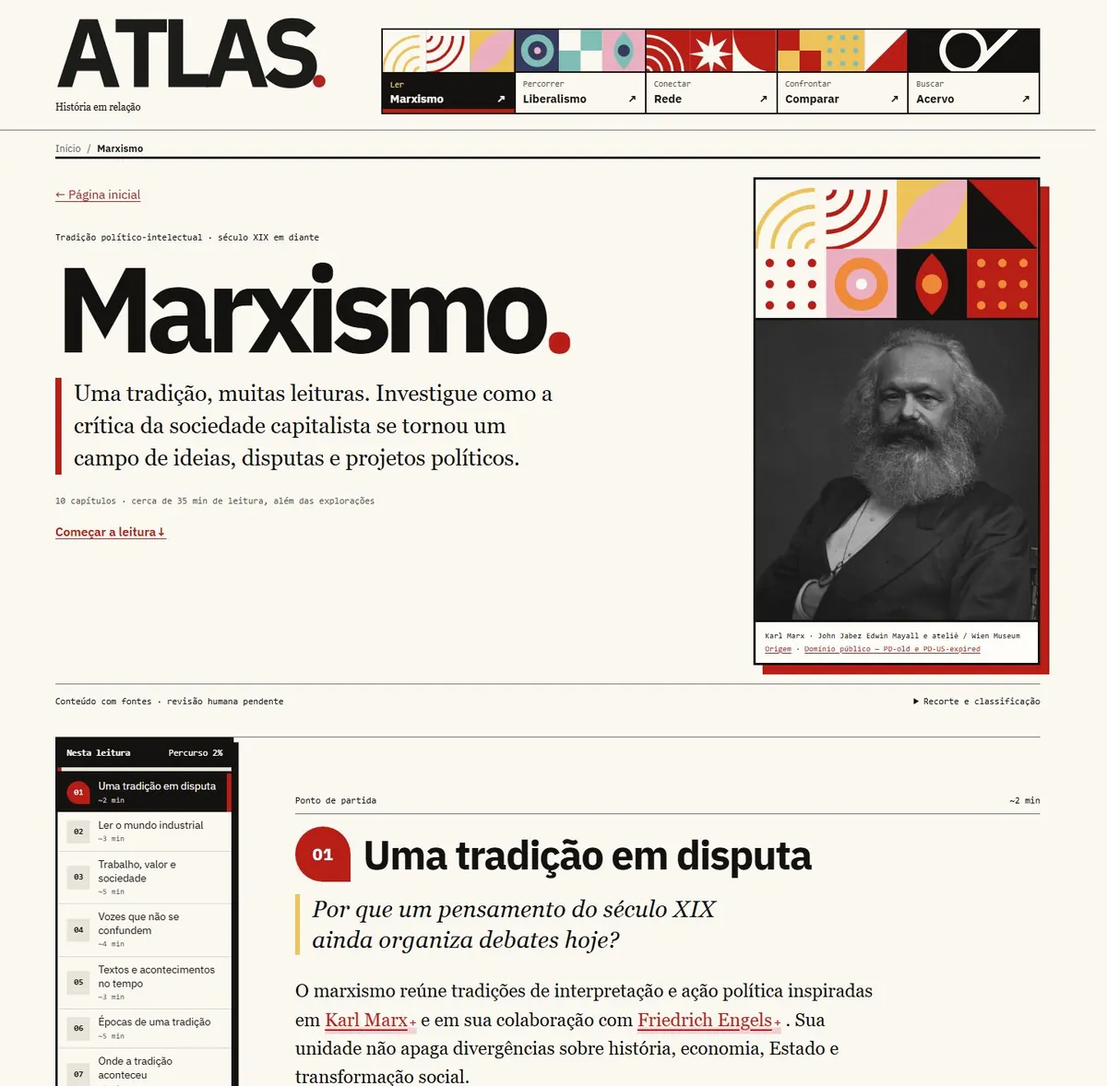
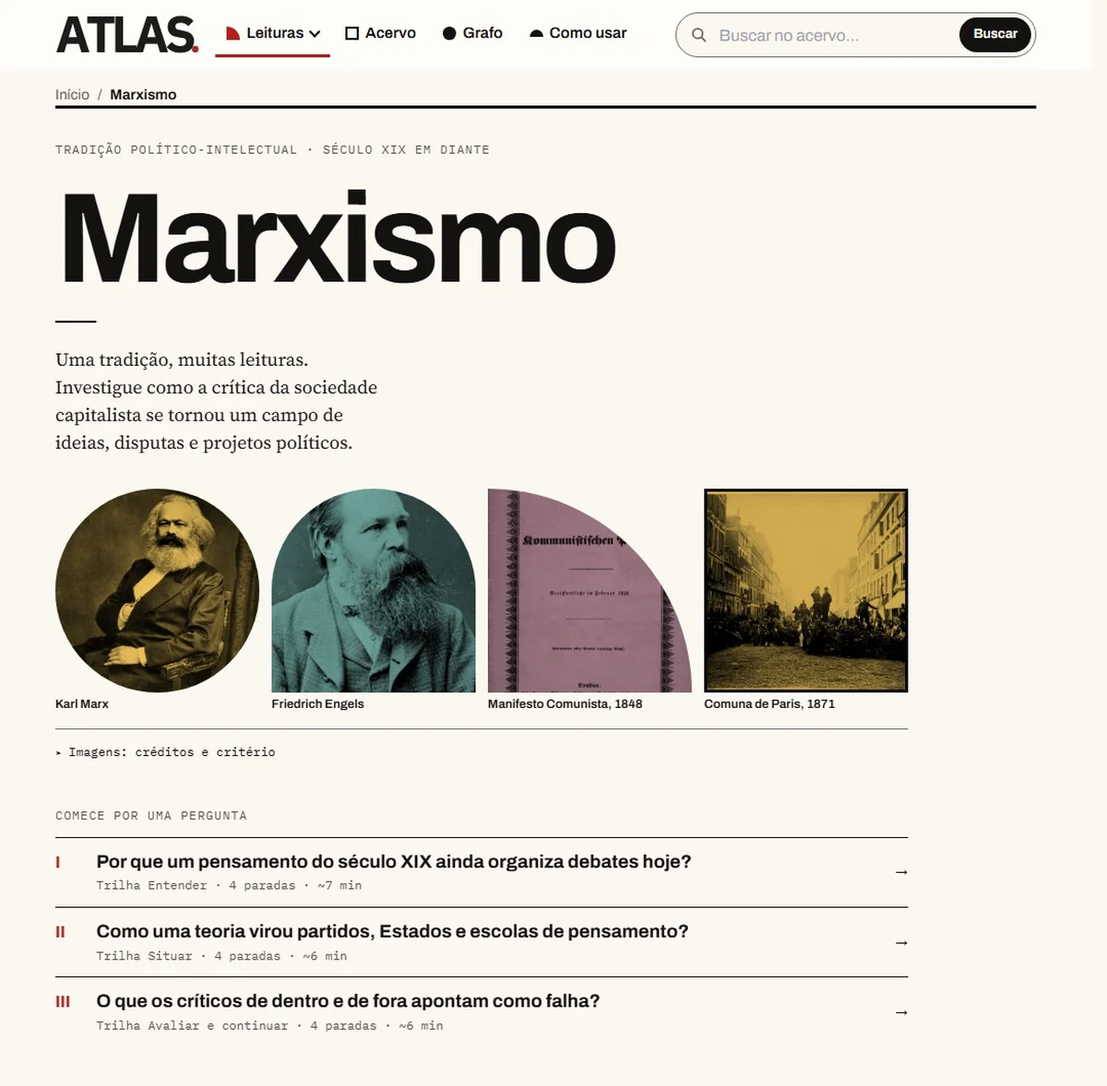
feat(portfolio): add Dalibre projects, refresh ATLAS reading preview and update README

diff --git a/index.html b/index.html
@@ -385,7 +385,7 @@
             <p class="section-description" data-i18n="projectsIntro">Beyond interfaces, I build tools for everyday development. Personal projects with open code, tests and documentation for you to explore.</p>
           </div>
         </div>
-        <div data-portfolio-content="projects"><div class="index-tool-list"><span class="index-grid-cross index-grid-cross--half" aria-hidden="true"></span><article class="index-tool-row reveal" data-reveal="left" style="--reveal-delay:0ms"><span class="index-card-number">01</span><div class="index-tool-title"><p class="project-category">DEPLOY / CI</p><h3>Deploy Preflight</h3></div><div class="index-tool-description"><h4>Validate configuration before deployment.</h4><p>Missing variables, inaccessible files and invalid URLs can break a release. A CLI that brings these checks into one report for your terminal or pipeline.</p><p class="project-decision">Typed validation, optional HTTP probes and CI exit codes. Environment values stay out of reports.</p><ul class="tech-tags"><li data-tech="TypeScript" style="--badge-delay:0ms">TypeScript</li><li data-tech="Node.js" style="--badge-delay:42ms">Node.js</li><li data-tech="HTTP" style="--badge-delay:84ms">HTTP</li><li data-tech="GitHub Actions" style="--badge-delay:126ms">GitHub Actions</li></ul><div class="index-terminal" role="group" aria-label="Usage example for Deploy Preflight"><div class="index-terminal-head"><span><i aria-hidden="true"></i>TERMINAL</span><span>DEPLOY / CI</span></div><pre><code><span class="terminal-prompt" aria-hidden="true">$</span> <span class="terminal-executable">deploy-preflight</span> <span class="terminal-argument">check</span> <span class="terminal-flag">--env-file</span> <span class="terminal-argument">.env.local</span> <span class="terminal-flag">--json</span></code></pre><div class="index-terminal-flow"><span>EXPECTED FLOW</span><p>Missing required variable → exit 1. Corrected configuration → exit 0.</p></div></div><div class="project-links"><a class="text-link" href="https://github.com/bellussi1/deploy-preflight" target="_blank" rel="noopener noreferrer">Explore code<span aria-hidden="true">↗</span></a><a class="text-link" href="https://github.com/bellussi1/deploy-preflight/actions" target="_blank" rel="noopener noreferrer">View tests and CI<span aria-hidden="true">↗</span></a><a class="text-link" href="https://github.com/bellussi1/deploy-preflight#runnable-example" target="_blank" rel="noopener noreferrer">Run the demo<span aria-hidden="true">↗</span></a></div></div></article><article class="index-tool-row reveal" data-reveal="right" style="--reveal-delay:95ms"><span class="index-card-number">02</span><div class="index-tool-title"><p class="project-category">BACKEND / INTEGRATIONS</p><h3>Local Webhook Recorder</h3></div><div class="index-tool-description"><h4>One event. As many tests as you need.</h4><p>Reproducing an integration should not require triggering the event again. Capture local webhooks, inspect their payloads and replay them after changing your handler.</p><p class="project-decision">SQLite persistence, byte-preserving capture and explicit replay to local endpoints. Payload and retention limits.</p><ul class="tech-tags"><li data-tech="TypeScript" style="--badge-delay:0ms">TypeScript</li><li data-tech="Node.js" style="--badge-delay:42ms">Node.js</li><li data-tech="SQLite" style="--badge-delay:84ms">SQLite</li><li data-tech="Webhooks" style="--badge-delay:126ms">Webhooks</li></ul><div class="index-terminal" role="group" aria-label="Usage example for Local Webhook Recorder"><div class="index-terminal-head"><span><i aria-hidden="true"></i>TERMINAL</span><span>BACKEND / INTEGRATIONS</span></div><pre><code><span class="terminal-prompt" aria-hidden="true">$</span> <span class="terminal-executable">webhook-recorder</span> <span class="terminal-argument">replay</span> <span class="terminal-argument">EVENT_ID</span> <span class="terminal-flag">--to</span> <span class="terminal-argument">http://127.0.0.1:3000/webhooks</span> <span class="terminal-flag">--json</span></code></pre><div class="index-terminal-flow"><span>EXPECTED FLOW</span><p>Capture an order and replay it twice: the example handler identifies the duplicate.</p></div></div><div class="project-links"><a class="text-link" href="https://github.com/bellussi1/local-webhook-recorder" target="_blank" rel="noopener noreferrer">Explore code<span aria-hidden="true">↗</span></a><a class="text-link" href="https://github.com/bellussi1/local-webhook-recorder/actions" target="_blank" rel="noopener noreferrer">View tests and CI<span aria-hidden="true">↗</span></a><a class="text-link" href="https://github.com/bellussi1/local-webhook-recorder#replay-and-idempotency-demo" target="_blank" rel="noopener noreferrer">Run the demo<span aria-hidden="true">↗</span></a></div></div></article><article class="index-tool-row reveal" data-reveal="scale" style="--reveal-delay:190ms"><span class="index-card-number">03</span><div class="index-tool-title"><p class="project-category">INFRA / DOCKER</p><h3>Compose Doctor</h3></div><div class="index-tool-description"><h4>Understand the state of your environment.</h4><p>A running container can still have a failing healthcheck. Diagnose Docker Compose services with status, restarts, ports and investigation suggestions.</p><p class="project-decision">Read-only queries, bounded subprocesses and selected metadata. Reports in text or JSON.</p><ul class="tech-tags"><li data-tech="TypeScript" style="--badge-delay:0ms">TypeScript</li><li data-tech="Docker Compose" style="--badge-delay:42ms">Docker Compose</li><li data-tech="Healthchecks" style="--badge-delay:84ms">Healthchecks</li><li data-tech="CLI" style="--badge-delay:126ms">CLI</li></ul><div class="index-terminal" role="group" aria-label="Usage example for Compose Doctor"><div class="index-terminal-head"><span><i aria-hidden="true"></i>TERMINAL</span><span>INFRA / DOCKER</span></div><pre><code><span class="terminal-prompt" aria-hidden="true">$</span> <span class="terminal-executable">compose-doctor</span> <span class="terminal-argument">check</span> <span class="terminal-flag">--file</span> <span class="terminal-argument">examples/compose.yaml</span> <span class="terminal-flag">--file</span> <span class="terminal-argument">examples/compose.fixed.yaml</span> <span class="terminal-flag">--project-name</span> <span class="terminal-argument">doctor-demo</span> <span class="terminal-flag">--service</span> <span class="terminal-argument">api</span> <span class="terminal-flag">--json</span></code></pre><div class="index-terminal-flow"><span>EXPECTED FLOW</span><p>API and database healthy → ready · exit 0.</p></div></div><div class="project-links"><a class="text-link" href="https://github.com/bellussi1/compose-doctor" target="_blank" rel="noopener noreferrer">Explore code<span aria-hidden="true">↗</span></a><a class="text-link" href="https://github.com/bellussi1/compose-doctor/actions" target="_blank" rel="noopener noreferrer">View tests and CI<span aria-hidden="true">↗</span></a><a class="text-link" href="https://github.com/bellussi1/compose-doctor#real-demo-unhealthy--ready" target="_blank" rel="noopener noreferrer">Run the demo<span aria-hidden="true">↗</span></a></div></div></article><article class="index-tool-row reveal" data-reveal="right" style="--reveal-delay:285ms"><span class="index-card-number">04</span><div class="index-tool-title"><p class="project-category">TRANSLATION / LLM</p><h3>Scriptorium</h3></div><div class="index-tool-description"><h4>Whole books, translated in parts and resumable.</h4><p>A personal fork of TranslateBooksWithLLMs for literary translation from English into Brazilian Portuguese. It runs locally, with models through Ollama, one book at a time.</p><p class="project-decision">Per-series glossary and style, checkpoints to resume, and validated EPUB output for KOReader and Calibre.</p><ul class="tech-tags"><li data-tech="Python" style="--badge-delay:0ms">Python</li><li data-tech="Ollama" style="--badge-delay:42ms">Ollama</li><li data-tech="Docker Compose" style="--badge-delay:84ms">Docker Compose</li><li data-tech="EPUB" style="--badge-delay:126ms">EPUB</li></ul><div class="index-terminal" role="group" aria-label="Usage example for Scriptorium"><div class="index-terminal-head"><span><i aria-hidden="true"></i>TERMINAL</span><span>TRANSLATION / LLM</span></div><pre><code><span class="terminal-prompt" aria-hidden="true">$</span> <span class="terminal-executable">python</span> <span class="terminal-argument">translate.py</span> <span class="terminal-argument">-i</span> <span class="terminal-argument">book.epub</span> <span class="terminal-argument">-sl</span> <span class="terminal-argument">English</span> <span class="terminal-argument">-tl</span> <span class="terminal-argument">&quot;Portuguese</span> <span class="terminal-argument">(Brazil)&quot;</span> <span class="terminal-flag">--provider</span> <span class="terminal-argument">ollama</span> <span class="terminal-argument">-m</span> <span class="terminal-argument">qwen3:14b</span></code></pre><div class="index-terminal-flow"><span>EXPECTED FLOW</span><p>Stop a book midway and resume from the saved checkpoint, without starting over.</p></div></div><div class="project-links"><a class="text-link" href="https://github.com/bellussi1/Scriptorium" target="_blank" rel="noopener noreferrer">Explore code<span aria-hidden="true">↗</span></a></div></div></article></div></div>
+        <div data-portfolio-content="projects"><div class="index-tool-list"><span class="index-grid-cross index-grid-cross--half" aria-hidden="true"></span><article class="index-tool-row reveal" data-reveal="left" style="--reveal-delay:0ms"><span class="index-card-number">01</span><div class="index-tool-title"><p class="project-category">DEPLOY / CI</p><h3>Deploy Preflight</h3></div><div class="index-tool-description"><h4>Validate configuration before deployment.</h4><p>Missing variables, inaccessible files and invalid URLs can break a release. A CLI that brings these checks into one report for your terminal or pipeline.</p><p class="project-decision">Typed validation, optional HTTP probes and CI exit codes. Environment values stay out of reports.</p><ul class="tech-tags"><li data-tech="TypeScript" style="--badge-delay:0ms">TypeScript</li><li data-tech="Node.js" style="--badge-delay:42ms">Node.js</li><li data-tech="HTTP" style="--badge-delay:84ms">HTTP</li><li data-tech="GitHub Actions" style="--badge-delay:126ms">GitHub Actions</li></ul><div class="index-terminal" role="group" aria-label="Usage example for Deploy Preflight"><div class="index-terminal-head"><span><i aria-hidden="true"></i>TERMINAL</span><span>DEPLOY / CI</span></div><pre><code><span class="terminal-prompt" aria-hidden="true">$</span> <span class="terminal-executable">deploy-preflight</span> <span class="terminal-argument">check</span> <span class="terminal-flag">--env-file</span> <span class="terminal-argument">.env.local</span> <span class="terminal-flag">--json</span></code></pre><div class="index-terminal-flow"><span>EXPECTED FLOW</span><p>Missing required variable → exit 1. Corrected configuration → exit 0.</p></div></div><div class="project-links"><a class="text-link" href="https://github.com/bellussi1/deploy-preflight" target="_blank" rel="noopener noreferrer">Explore code<span aria-hidden="true">↗</span></a><a class="text-link" href="https://github.com/bellussi1/deploy-preflight/actions" target="_blank" rel="noopener noreferrer">View tests and CI<span aria-hidden="true">↗</span></a><a class="text-link" href="https://github.com/bellussi1/deploy-preflight#runnable-example" target="_blank" rel="noopener noreferrer">Run the demo<span aria-hidden="true">↗</span></a></div></div></article><article class="index-tool-row reveal" data-reveal="right" style="--reveal-delay:95ms"><span class="index-card-number">02</span><div class="index-tool-title"><p class="project-category">BACKEND / INTEGRATIONS</p><h3>Local Webhook Recorder</h3></div><div class="index-tool-description"><h4>One event. As many tests as you need.</h4><p>Reproducing an integration should not require triggering the event again. Capture local webhooks, inspect their payloads and replay them after changing your handler.</p><p class="project-decision">SQLite persistence, byte-preserving capture and explicit replay to local endpoints. Payload and retention limits.</p><ul class="tech-tags"><li data-tech="TypeScript" style="--badge-delay:0ms">TypeScript</li><li data-tech="Node.js" style="--badge-delay:42ms">Node.js</li><li data-tech="SQLite" style="--badge-delay:84ms">SQLite</li><li data-tech="Webhooks" style="--badge-delay:126ms">Webhooks</li></ul><div class="index-terminal" role="group" aria-label="Usage example for Local Webhook Recorder"><div class="index-terminal-head"><span><i aria-hidden="true"></i>TERMINAL</span><span>BACKEND / INTEGRATIONS</span></div><pre><code><span class="terminal-prompt" aria-hidden="true">$</span> <span class="terminal-executable">webhook-recorder</span> <span class="terminal-argument">replay</span> <span class="terminal-argument">EVENT_ID</span> <span class="terminal-flag">--to</span> <span class="terminal-argument">http://127.0.0.1:3000/webhooks</span> <span class="terminal-flag">--json</span></code></pre><div class="index-terminal-flow"><span>EXPECTED FLOW</span><p>Capture an order and replay it twice: the example handler identifies the duplicate.</p></div></div><div class="project-links"><a class="text-link" href="https://github.com/bellussi1/local-webhook-recorder" target="_blank" rel="noopener noreferrer">Explore code<span aria-hidden="true">↗</span></a><a class="text-link" href="https://github.com/bellussi1/local-webhook-recorder/actions" target="_blank" rel="noopener noreferrer">View tests and CI<span aria-hidden="true">↗</span></a><a class="text-link" href="https://github.com/bellussi1/local-webhook-recorder#replay-and-idempotency-demo" target="_blank" rel="noopener noreferrer">Run the demo<span aria-hidden="true">↗</span></a></div></div></article><article class="index-tool-row reveal" data-reveal="scale" style="--reveal-delay:190ms"><span class="index-card-number">03</span><div class="index-tool-title"><p class="project-category">INFRA / DOCKER</p><h3>Compose Doctor</h3></div><div class="index-tool-description"><h4>Understand the state of your environment.</h4><p>A running container can still have a failing healthcheck. Diagnose Docker Compose services with status, restarts, ports and investigation suggestions.</p><p class="project-decision">Read-only queries, bounded subprocesses and selected metadata. Reports in text or JSON.</p><ul class="tech-tags"><li data-tech="TypeScript" style="--badge-delay:0ms">TypeScript</li><li data-tech="Docker Compose" style="--badge-delay:42ms">Docker Compose</li><li data-tech="Healthchecks" style="--badge-delay:84ms">Healthchecks</li><li data-tech="CLI" style="--badge-delay:126ms">CLI</li></ul><div class="index-terminal" role="group" aria-label="Usage example for Compose Doctor"><div class="index-terminal-head"><span><i aria-hidden="true"></i>TERMINAL</span><span>INFRA / DOCKER</span></div><pre><code><span class="terminal-prompt" aria-hidden="true">$</span> <span class="terminal-executable">compose-doctor</span> <span class="terminal-argument">check</span> <span class="terminal-flag">--file</span> <span class="terminal-argument">examples/compose.yaml</span> <span class="terminal-flag">--file</span> <span class="terminal-argument">examples/compose.fixed.yaml</span> <span class="terminal-flag">--project-name</span> <span class="terminal-argument">doctor-demo</span> <span class="terminal-flag">--service</span> <span class="terminal-argument">api</span> <span class="terminal-flag">--json</span></code></pre><div class="index-terminal-flow"><span>EXPECTED FLOW</span><p>API and database healthy → ready · exit 0.</p></div></div><div class="project-links"><a class="text-link" href="https://github.com/bellussi1/compose-doctor" target="_blank" rel="noopener noreferrer">Explore code<span aria-hidden="true">↗</span></a><a class="text-link" href="https://github.com/bellussi1/compose-doctor/actions" target="_blank" rel="noopener noreferrer">View tests and CI<span aria-hidden="true">↗</span></a><a class="text-link" href="https://github.com/bellussi1/compose-doctor#real-demo-unhealthy--ready" target="_blank" rel="noopener noreferrer">Run the demo<span aria-hidden="true">↗</span></a></div></div></article><article class="index-tool-row reveal" data-reveal="right" style="--reveal-delay:285ms"><span class="index-card-number">04</span><div class="index-tool-title"><p class="project-category">TRANSLATION / LLM</p><h3>Scriptorium</h3></div><div class="index-tool-description"><h4>Whole books, translated in parts and resumable.</h4><p>A personal fork of TranslateBooksWithLLMs for literary translation from English into Brazilian Portuguese. It runs locally, with models through Ollama, one book at a time.</p><p class="project-decision">Per-series glossary and style, checkpoints to resume, and validated EPUB output for KOReader and Calibre.</p><ul class="tech-tags"><li data-tech="Python" style="--badge-delay:0ms">Python</li><li data-tech="Ollama" style="--badge-delay:42ms">Ollama</li><li data-tech="Docker Compose" style="--badge-delay:84ms">Docker Compose</li><li data-tech="EPUB" style="--badge-delay:126ms">EPUB</li></ul><div class="index-terminal" role="group" aria-label="Usage example for Scriptorium"><div class="index-terminal-head"><span><i aria-hidden="true"></i>TERMINAL</span><span>TRANSLATION / LLM</span></div><pre><code><span class="terminal-prompt" aria-hidden="true">$</span> <span class="terminal-executable">python</span> <span class="terminal-argument">translate.py</span> <span class="terminal-argument">-i</span> <span class="terminal-argument">book.epub</span> <span class="terminal-argument">-sl</span> <span class="terminal-argument">English</span> <span class="terminal-argument">-tl</span> <span class="terminal-argument">&quot;Portuguese</span> <span class="terminal-argument">(Brazil)&quot;</span> <span class="terminal-flag">--provider</span> <span class="terminal-argument">ollama</span> <span class="terminal-argument">-m</span> <span class="terminal-argument">qwen3:14b</span></code></pre><div class="index-terminal-flow"><span>EXPECTED FLOW</span><p>Stop a book midway and resume from the saved checkpoint, without starting over.</p></div></div><div class="project-links"><a class="text-link" href="https://github.com/bellussi1/Scriptorium" target="_blank" rel="noopener noreferrer">Explore code<span aria-hidden="true">↗</span></a></div></div></article><article class="index-tool-row reveal" data-reveal="right" style="--reveal-delay:380ms"><span class="index-card-number">05</span><div class="index-tool-title"><p class="project-category">E-BOOK / PLUGINS &amp; SYNC</p><h3>Dalibre Plugins</h3></div><div class="index-tool-description"><h4>Brazilian metadata and Hardcover reading sync for Dalibre.</h4><p>Three community plugins for Dalibre: two-way reading status and shelf sync with Hardcover (paired with KOReader via edition ISBNs), official Brazilian ISBN lookup via CBL/BrasilAPI, and Open Library metadata.</p><p class="project-decision">Zero-dependency plugins running in Dalibre&#39;s sandboxed Goja runtime, prioritizing Portuguese editions (978-65 / 978-85) and verified in CI with dalibre-plugin check.</p><ul class="tech-tags"><li data-tech="JavaScript" style="--badge-delay:0ms">JavaScript</li><li data-tech="GraphQL" style="--badge-delay:42ms">GraphQL</li><li data-tech="BrasilAPI" style="--badge-delay:84ms">BrasilAPI</li><li data-tech="Open Library" style="--badge-delay:126ms">Open Library</li><li data-tech="Dalibre SDK" style="--badge-delay:168ms">Dalibre SDK</li></ul><div class="index-terminal" role="group" aria-label="Usage example for Dalibre Plugins"><div class="index-terminal-head"><span><i aria-hidden="true"></i>TERMINAL</span><span>E-BOOK / PLUGINS &amp; SYNC</span></div><pre><code><span class="terminal-prompt" aria-hidden="true">$</span> <span class="terminal-executable">dalibre-plugin</span> <span class="terminal-argument">identify</span> <span class="terminal-argument">.</span> <span class="terminal-flag">--isbn</span> <span class="terminal-argument">9788535914849</span> <span class="terminal-flag">--json</span></code></pre><div class="index-terminal-flow"><span>EXPECTED FLOW</span><p>ISBN or title lookup returns normalized metadata, cover and edition identifiers ready to sync.</p></div></div><div class="project-links"><a class="text-link" href="https://github.com/bellussi1/dalibre-hardcover" target="_blank" rel="noopener noreferrer">Hardcover plugin<span aria-hidden="true">↗</span></a><a class="text-link" href="https://github.com/bellussi1/dalibre-isbn-brasil" target="_blank" rel="noopener noreferrer">ISBN Brasil plugin<span aria-hidden="true">↗</span></a><a class="text-link" href="https://github.com/bellussi1/dalibre-openlibrary" target="_blank" rel="noopener noreferrer">Open Library plugin<span aria-hidden="true">↗</span></a></div></div></article><article class="index-tool-row reveal" data-reveal="right" style="--reveal-delay:475ms"><span class="index-card-number">06</span><div class="index-tool-title"><p class="project-category">DESKTOP / GO &amp; UI</p><h3>Dalibre</h3></div><div class="index-tool-description"><h4>A fast, native Go desktop library for Calibre.</h4><p>Fork and upstream contributions to Dalibre, a lightweight Calibre alternative written in Go with MyGo&#39;s native UI (no webview, no cgo). Includes full Brazilian Portuguese localization, Lusophone bookstores, list-view sorting and plugin SDK improvements.</p><p class="project-decision">1,072 ICU MessageFormat keys localized into pt-BR, Title and Formats column sorting in list view, and SDK type/schema synchronization in the official plugin template.</p><ul class="tech-tags"><li data-tech="Go" style="--badge-delay:0ms">Go</li><li data-tech="MyGo UI" style="--badge-delay:42ms">MyGo UI</li><li data-tech="SQLite" style="--badge-delay:84ms">SQLite</li><li data-tech="ICU MessageFormat" style="--badge-delay:126ms">ICU MessageFormat</li><li data-tech="JavaScript" style="--badge-delay:168ms">JavaScript</li></ul><div class="index-terminal" role="group" aria-label="Usage example for Dalibre"><div class="index-terminal-head"><span><i aria-hidden="true"></i>TERMINAL</span><span>DESKTOP / GO &amp; UI</span></div><pre><code><span class="terminal-prompt" aria-hidden="true">$</span> <span class="terminal-executable">go</span> <span class="terminal-argument">test</span> <span class="terminal-argument">./internal/app</span> <span class="terminal-argument">./internal/catalog</span></code></pre><div class="index-terminal-flow"><span>EXPECTED FLOW</span><p>Localized pt-BR interface, sortable list columns and headless view tests passing.</p></div></div><div class="project-links"><a class="text-link" href="https://github.com/bellussi1/dalibre" target="_blank" rel="noopener noreferrer">Explore fork<span aria-hidden="true">↗</span></a><a class="text-link" href="https://github.com/bellussi1/dalibre-plugin-template" target="_blank" rel="noopener noreferrer">Plugin template<span aria-hidden="true">↗</span></a></div></div></article></div></div>
       </section>
       <section 
         class="approach-section"

diff --git a/src/content/portfolio.js b/src/content/portfolio.js
@@ -325,5 +325,112 @@ export const portfolioContent = {
         exampleLabel: "USAGE EXAMPLE",
       },
     },
+    {
+      id: "dalibre-plugins",
+      name: "Dalibre Plugins",
+      category: "E-BOOK / PLUGINS & SYNC",
+      command:
+        "dalibre-plugin identify . --isbn 9788535914849 --json",
+      technologies: [
+        "JavaScript",
+        "GraphQL",
+        "BrasilAPI",
+        "Open Library",
+        "Dalibre SDK",
+      ],
+      links: [
+        {
+          type: "hardcover",
+          href: "https://github.com/bellussi1/dalibre-hardcover",
+        },
+        {
+          type: "isbnBrasil",
+          href: "https://github.com/bellussi1/dalibre-isbn-brasil",
+        },
+        {
+          type: "openLibrary",
+          href: "https://github.com/bellussi1/dalibre-openlibrary",
+        },
+      ],
+      pt: {
+        headline: "Metadados brasileiros e sincronização com o Hardcover no Dalibre.",
+        description:
+          "Três plugins comunitários para o Dalibre: sincronização bidirecional de leitura e estantes com o Hardcover (alinhada ao KOReader via ISBN), busca de edições brasileiras na CBL/BrasilAPI e catálogo da Open Library.",
+        decision:
+          "Execução em sandbox Goja sem dependências externas, priorização de edições em português (978-65 / 978-85) e validação no CI com dalibre-plugin check.",
+        demo:
+          "Busca por ISBN ou título retorna metadados completos, capa e vínculo de edição pronto para sincronizar.",
+        exampleLabel: "EXEMPLO DE USO",
+        linkLabels: {
+          hardcover: "Plugin Hardcover",
+          isbnBrasil: "Plugin ISBN Brasil",
+          openLibrary: "Plugin Open Library",
+        },
+      },
+      en: {
+        headline: "Brazilian metadata and Hardcover reading sync for Dalibre.",
+        description:
+          "Three community plugins for Dalibre: two-way reading status and shelf sync with Hardcover (paired with KOReader via edition ISBNs), official Brazilian ISBN lookup via CBL/BrasilAPI, and Open Library metadata.",
+        decision:
+          "Zero-dependency plugins running in Dalibre's sandboxed Goja runtime, prioritizing Portuguese editions (978-65 / 978-85) and verified in CI with dalibre-plugin check.",
+        demo:
+          "ISBN or title lookup returns normalized metadata, cover and edition identifiers ready to sync.",
+        exampleLabel: "USAGE EXAMPLE",
+        linkLabels: {
+          hardcover: "Hardcover plugin",
+          isbnBrasil: "ISBN Brasil plugin",
+          openLibrary: "Open Library plugin",
+        },
+      },
+    },
+    {
+      id: "dalibre",
+      name: "Dalibre",
+      category: "DESKTOP / GO & UI",
+      command:
+        "go test ./internal/app ./internal/catalog",
+      technologies: [
+        "Go",
+        "MyGo UI",
+        "SQLite",
+        "ICU MessageFormat",
+        "JavaScript",
+      ],
+      links: [
+        { type: "code", href: "https://github.com/bellussi1/dalibre" },
+        {
+          type: "template",
+          href: "https://github.com/bellussi1/dalibre-plugin-template",
+        },
+      ],
+      pt: {
+        headline: "Biblioteca desktop leve para o Calibre, em Go nativo.",
+        description:
+          "Fork e contribuições upstream para o Dalibre, alternativa desktop ao Calibre escrita em Go com interface nativa MyGo (sem webview e sem cgo). Inclui localização completa para português do Brasil, livrarias lusófonas e melhorias na tabela e no SDK de plugins.",
+        decision:
+          "Tradução de 1.072 chaves ICU MessageFormat (pt-BR), ordenação por colunas de título e formato na listagem e sincronização de tipos/schema no template oficial de plugins.",
+        demo:
+          "Interface em pt-BR, colunas ordenáveis e testes de view sem precisar abrir janela.",
+        codeLabel: "Explorar fork",
+        exampleLabel: "EXEMPLO DE USO",
+        linkLabels: {
+          template: "Template de plugin",
+        },
+      },
+      en: {
+        headline: "A fast, native Go desktop library for Calibre.",
+        description:
+          "Fork and upstream contributions to Dalibre, a lightweight Calibre alternative written in Go with MyGo's native UI (no webview, no cgo). Includes full Brazilian Portuguese localization, Lusophone bookstores, list-view sorting and plugin SDK improvements.",
+        decision:
+          "1,072 ICU MessageFormat keys localized into pt-BR, Title and Formats column sorting in list view, and SDK type/schema synchronization in the official plugin template.",
+        demo:
+          "Localized pt-BR interface, sortable list columns and headless view tests passing.",
+        codeLabel: "Explore fork",
+        exampleLabel: "USAGE EXAMPLE",
+        linkLabels: {
+          template: "Plugin template",
+        },
+      },
+    },
   ],
 };

diff --git a/test/portfolio-rendering.test.js b/test/portfolio-rendering.test.js
@@ -50,7 +50,7 @@ test("keeps project facts, image paths, and public links consistent across conce
   );
   assert.deepEqual(
     portfolioContent.openSourceProjects.map(({ id }) => id),
-    ["deploy-preflight", "local-webhook-recorder", "compose-doctor", "scriptorium"],
+    ["deploy-preflight", "local-webhook-recorder", "compose-doctor", "scriptorium", "dalibre-plugins", "dalibre"],
   );
   for (const product of portfolioContent.products) {
     for (const section of [field.products, index.products]) {

diff --git a/src/content/render-portfolio.js b/src/content/render-portfolio.js
@@ -313,6 +313,7 @@ function renderIndexProducts(language) {
 }
 
 function linkLabel(copy, type) {
+  if (copy.linkLabels?.[type]) return copy.linkLabels[type];
   if (type === "tests") return copy.testsLabel;
   if (type === "demo") return copy.demoLabel;
   return copy.codeLabel;

diff --git a/docs/ACTIVE_CONTEXT.md b/docs/ACTIVE_CONTEXT.md
@@ -4,60 +4,56 @@ Handoff between sessions. Read this first; update it before you stop. This file
 is the shared state for both Claude Code and OpenCode, so it must describe the
 real repository, not a plan.
 
-Status: current as of 2026-11-10. Revalidate with `git status` and `git log`
+Status: current as of 2026-11-18. Revalidate with `git status` and `git log`
 before acting on anything below.
 
 ## Repository
 
-- Current branch: `codex/portfolio-comandinha-visuals`, clean working tree, at
-  `ddb7700` — `docs: record the final Lighthouse 100 audit`.
-- That branch is **5 commits ahead of `main`**: V2 editorial restoration, the
-  mid-level / English B2+ content update, the pre-paint JS class and the
-  Lighthouse audit docs. The work is not merged into `main`.
-- Branch name does not describe its content. Confirm with the user whether it
-  should be merged, renamed or rebased before starting new work on top of it.
+- Current branch: `codex/portfolio-comandinha-visuals`, synchronized with
+  `main` (`origin/main` and `origin/codex/portfolio-comandinha-visuals`).
+- Sibling repository updated alongside this work:
+  `C:\Users\Bellussi\Documents\Workspace\Portifolio\github-profile-readme`
+  (`bellussi1/bellussi1`, synced on `main` / `origin/main`).
 
 ## Published state
 
 - https://bellussi.vercel.app serves the V2 editorial site, English by default,
   Portuguese through `?lang=pt`.
 - Lighthouse production audit: 100 in performance, accessibility, best practices
-  and SEO, on mobile and desktop.
+  and SEO, on mobile and desktop (last recorded at `ddb7700`; re-verify after
+  the 2026-11-18 update).
 - Resumes updated to Pleno / B2+, in PT and EN, one page, ATS; PDFs in `cv/`,
   `public/` and `Documents\Curriculos`.
 
-## Uncommitted work (2026-11-13)
+## Recent updates (2026-11-18)
 
-- Home card of ATLAS now shows the new home (`public/atlas-home.webp`, captured
-  from https://atlas-bellussi.pages.dev). The reading capture
-  (`public/atlas-reading.webp`) is still in `public/`, unused by the cards.
-- Scriptorium added to `openSourceProjects` (personal fork of
-  TranslateBooksWithLLMs, source at github.com/bellussi1/Scriptorium).
-- `index.html` product and project sections regenerated from the renderer;
-  `test/portfolio-rendering.test.js` expects the new id list.
-- Verified: `npm test` 54/54, `npm run build` ok, visual check at 1280 and 320 px.
-- Committed as `72027dc` on `codex/portfolio-comandinha-visuals`. Not pushed.
-- Critique fixes, not committed (2026-11-14): font sizes raised to a 12px floor
-  in `styles/`; nav renamed to Case studies / Tools (PT: Estudos de caso /
-  Ferramentas); mobile header is one row at 380px and below (105 → 65px);
-  experience context disclosures open by default; Approach items cite facts
-  already on the site (Zod, Lighthouse 100, ATLAS pipeline); Contact states
-  role, São Paulo and language level.
-- `test/concept-styles.test.js` now expects the one-row header at ≤380px.
-- Open: Contact modality and availability (not in the repo); ATLAS card is still
-  about 1,035 px tall at 375 px because of copy length; detector reports
-  `flat-type-hierarchy` on index.html, likely a false positive because the scan
-  does not read the CSS sizes.
+- **Hero ATLAS reading capture (`public/atlas-reading.webp`):** regenerated at
+  `1200x1178` WebP from the current `/leitura/marxismo` capture
+  (`ATLAS/docs/social/linkedin/assets/leitura-top.jpg`).
+- **New projects (`src/content/portfolio.js`, `src/content/render-portfolio.js`, `index.html`):**
+  - Added `dalibre-plugins` (Hardcover, ISBN Brasil, Open Library) and `dalibre`
+    (fork + upstream Go/MyGo/SDK contributions and `dalibre-plugin-template`) to
+    `openSourceProjects` in PT and EN.
+  - Added `copy.linkLabels?.[type]` support in `render-portfolio.js` so tool
+    entries can label multiple distinct repository links cleanly.
+  - Regenerated pre-rendered English containers in `index.html` and updated
+    `test/portfolio-rendering.test.js` with the 6-item `openSourceProjects` id list.
+- **Documentation (`README.md`):**
+  - Listed Scriptorium, Dalibre Plugins and Dalibre alongside the existing
+    open-source tools in English and Portuguese.
+  - Reconciled the `lenis` divergence: noted that `lenis` is the only declared
+    runtime dependency in `package.json` (`src/utils/smooth-scroll.js` configures
+    `syncTouch: false` and `respectReducedMotion: true`, while `src/main.js` keeps
+    native scrolling active).
+- **GitHub profile README (`github-profile-readme` / `bellussi1/bellussi1`):**
+  - Updated `assets/atlas-preview.webp` from `public/atlas-home.webp` (`1200x716`).
+  - Added Dalibre, Scriptorium, Dalibre Hardcover, Dalibre ISBN Brasil and
+    Dalibre Open Library to `README.md` (both English and Portuguese sections).
 
-## Known divergence
+## Open items
 
-`README.md` says the site uses "no animation library", but `lenis` is a runtime
-dependency and `src/utils/smooth-scroll.js` plus `src/utils/parallax.js` exist.
-The README needs correcting, or the dependency needs justifying — decide which
-is true before touching scroll behavior.
-
-## Next steps
-
-1. Decide the fate of the current branch (merge into `main`, rename, or rebase).
-2. Reconcile the README with the real scroll/motion stack.
-3. Only then take new visual or content work.
+- Re-run Lighthouse audit against production after the 2026-11-18 deploy.
+- Decide whether to keep `lenis` / `src/utils/smooth-scroll.js` wired or prune
+  unused scroll/parallax utilities if not needed.
+- Contact modality and availability remain omitted from the repo; ATLAS card
+  height at 375 px (~1,035 px) due to copy length.

diff --git a/README.md b/README.md
@@ -11,7 +11,7 @@ Personal site of **Enzo Bellussi**, a software engineer based in São Paulo, Bra
 - **Editorial V2 design** — Zilla Slab typography, a technical index grid, inline rules and a dark/light theme.
 - **ATLAS case study** — the flagship open-source project: an interactive encyclopedia built on a sourced knowledge graph with 896 entities, 7,918 sourced claims and 898 sources.
 - **Products** — ATLAS and KOReader Ecosystem, with real screenshots and current status.
-- **Open-source tools** — Deploy Preflight, Local Webhook Recorder and Compose Doctor.
+- **Open-source tools** — Deploy Preflight, Local Webhook Recorder, Compose Doctor, Scriptorium, Dalibre Plugins (Hardcover, ISBN Brasil, Open Library) and Dalibre contributions.
 - **Experience and approach** — enterprise work at MarketData and Banco do Brasil, plus the engineering principles behind the interface.
 - **Bilingual** — English is the default; Portuguese is available through the language switch and `?lang=pt`.
 - **Resumes** — ATS-oriented LaTeX resumes in English and Portuguese, linked from the hero, contact section and footer.
@@ -31,7 +31,7 @@ The production audit reaches 100 in all four categories on mobile and desktop. M
 
 Choices behind the result:
 
-- No UI framework and no animation library.
+- No UI framework; `lenis` is the only declared runtime dependency in `package.json` (`src/utils/smooth-scroll.js` configures `syncTouch: false` and `respectReducedMotion: true`, while `src/main.js` keeps native scrolling active).
 - Self-hosted, subsetted Zilla Slab fonts with preload; no third-party font requests.
 - AVIF/WebP assets, responsive sizes and explicit dimensions.
 - Smooth-scroll, parallax, cursor effects and reveal/observer motion are not required for the layout. The page keeps native scrolling and CSS transitions; touch devices skip decorative entrance animations.
@@ -42,7 +42,7 @@ Choices behind the result:
 
 ## Stack
 
-- **HTML, CSS and modern JavaScript** — no framework.
+- **HTML, CSS and modern JavaScript** — no UI framework (`lenis` is the only runtime dependency in `package.json`).
 - **Vite** for development and production builds.
 - **Node.js 24** and the committed lockfile.
 - **Vercel** for hosting.
@@ -113,6 +113,7 @@ Portfólio profissional de **Enzo Bellussi**, engenheiro de software em São Pau
 
 - **No ar:** [bellussi.vercel.app](https://bellussi.vercel.app)
 - **Projeto principal:** [ATLAS](https://atlas-bellussi.pages.dev) — enciclopédia visual com grafo de conhecimento e fontes em cada afirmação.
+- **Ferramentas e projetos open source:** Deploy Preflight, Local Webhook Recorder, Compose Doctor, Scriptorium, Dalibre Plugins (Hardcover, ISBN Brasil, Open Library) e contribuições ao Dalibre.
 - **Currículos:** `public/curriculo-en.pdf` e `public/curriculo-pt.pdf`; fontes em `cv/`.
 - **Lighthouse:** 100 em performance, acessibilidade, boas práticas e SEO no mobile e no desktop.
 
